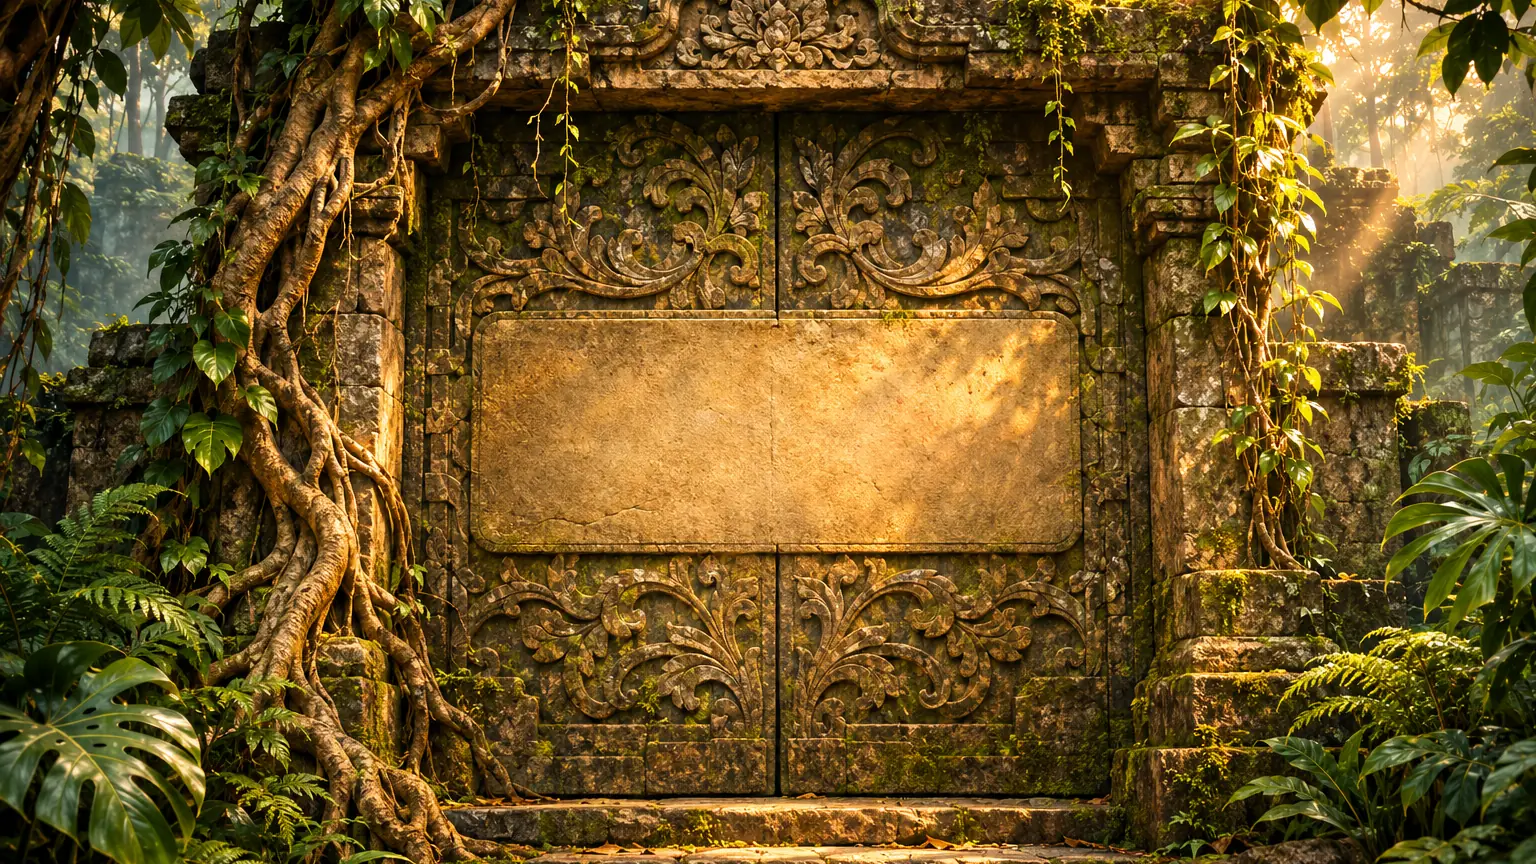
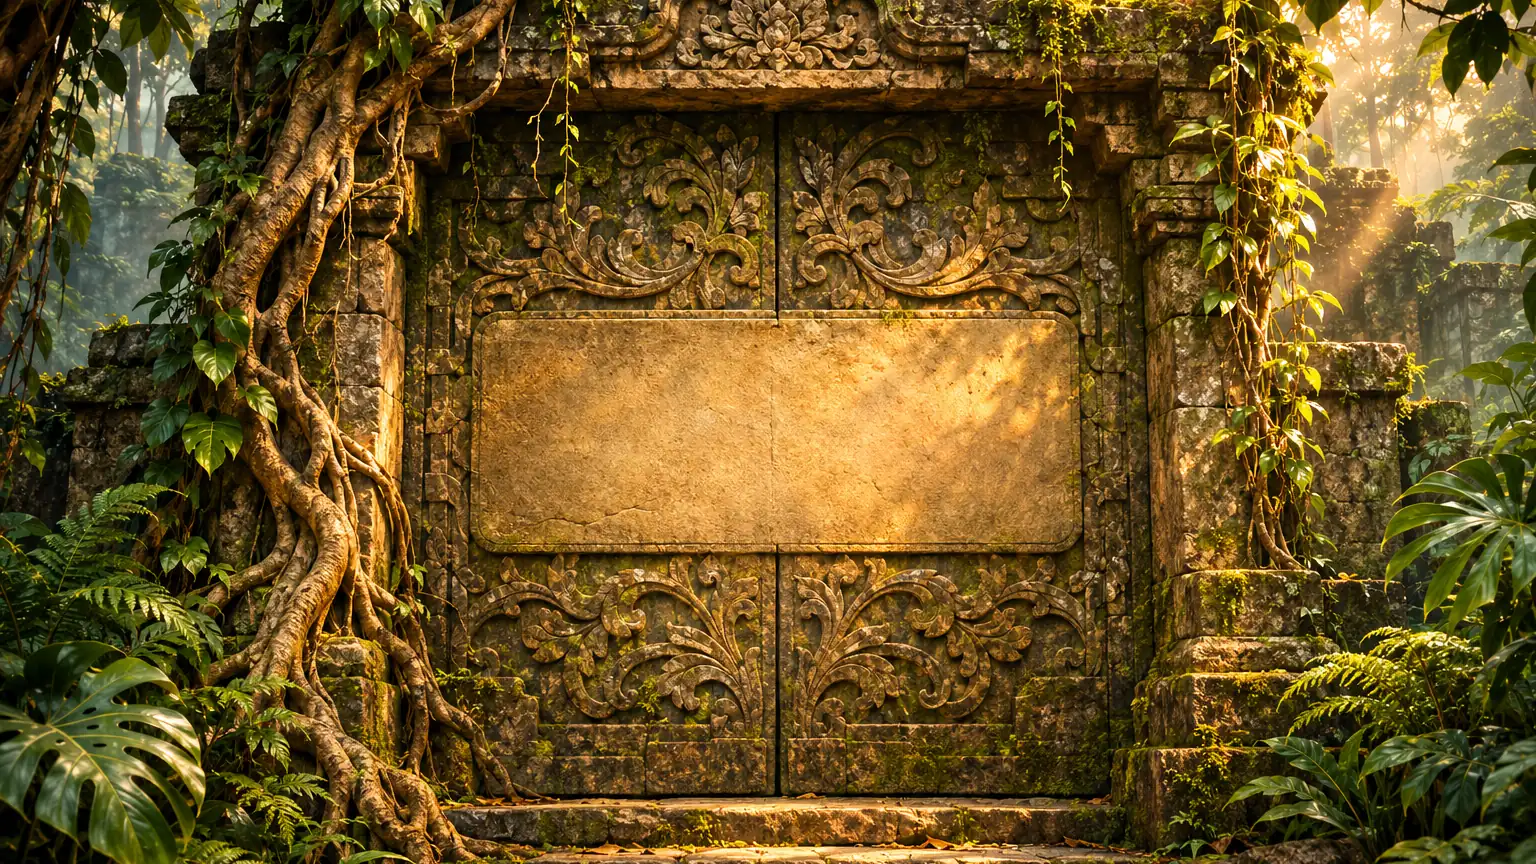
Wrota: lżejsza grafika (272 KB) i rozmyty podgląd widoczny od razu
Claude-Session: https://claude.ai/code/session_01PM2D5MB8rGjbQCE1XvDzZe

diff --git a/index.html b/index.html
@@ -298,7 +298,7 @@ try { if (matchMedia("(pointer: fine) and (hover: hover)").matches && Math.min(s
   #brama .blask{position:absolute;left:50%;top:0;bottom:0;width:60%;transform:translateX(-50%);opacity:0;
     background:radial-gradient(ellipse 22% 60% at 50% 55%,rgba(255,226,150,.95),rgba(255,190,90,.45) 45%,rgba(255,170,60,0) 75%)}
   #brama .skrzydlo{position:absolute;top:0;width:50%;height:100%;
-    background-image:url(img/wejscie-tlo.webp);background-size:200% 100%;background-repeat:no-repeat;
[1 lines of base64/hex data omitted]
     transition:transform 1s cubic-bezier(.55,.05,.35,1)}
   #brama .lewe{left:0;background-position:left center}
   #brama .prawe{right:0;background-position:right center}
